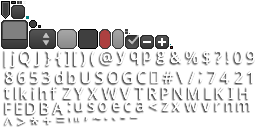
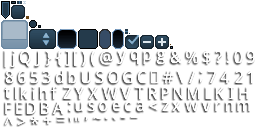
changed ui colors & forced landscape

Changed region(s): [[0.0, 0.0, 0.6562, 0.4062]]

diff --git a/glxy-android/src/com/kaeruct/glxy/MainActivity.java b/glxy-android/src/com/kaeruct/glxy/MainActivity.java
@@ -19,7 +19,7 @@ public class MainActivity extends AndroidApplication {
         WindowManager.LayoutParams attrs = getWindow().getAttributes();
         attrs.flags |= WindowManager.LayoutParams.FLAG_FULLSCREEN;
         getWindow().setAttributes(attrs);
-        setRequestedOrientation(ActivityInfo.SCREEN_ORIENTATION_PORTRAIT);
+        setRequestedOrientation(ActivityInfo.SCREEN_ORIENTATION_LANDSCAPE);
         
         if (Build.VERSION.SDK_INT >= 11) {
         	resetStatusBar();

diff --git a/glxy/src/com/kaeruct/glxy/screen/GameScreen.java b/glxy/src/com/kaeruct/glxy/screen/GameScreen.java
@@ -80,9 +80,9 @@ public class GameScreen extends Screen {
 		b1.pad(padY, padX, padY, padX);
 		
 		// set up table layout
-		table.add(universe).expand().fill().colspan(6).row();
+		table.add(universe).expand().fill().colspan(5).row();
 		table.add(l2).pad(4);
-		table.add(l1).pad(4).minWidth(20f).fillX();
+		table.add(l1).pad(4).fillX();
 		table.add(rSlider).right().pad(4).expandX();
 		table.add(b1).right().expandX().pad(4);
 		table.add(t4).right().pad(4);

diff --git a/glxy/src/com/kaeruct/glxy/actor/SettingsDialog.java b/glxy/src/com/kaeruct/glxy/actor/SettingsDialog.java
@@ -20,7 +20,7 @@ public class SettingsDialog extends Dialog {
 	private final float padY;
 	
 	public SettingsDialog (final Universe universe, Skin skin, float padX, float padY) {
-		super("Settings", skin);
+		super("", skin);
 		this.universe = universe;
 		this.padX = padX;
 		this.padY = padY;

diff --git a/glxy/src/com/kaeruct/glxy/actor/Universe.java b/glxy/src/com/kaeruct/glxy/actor/Universe.java
@@ -196,7 +196,7 @@ public class Universe extends Actor {
 
 		// fill background
 		sr.begin(ShapeType.FilledRectangle);
-		sr.setColor(0.1f, 0.1f, 0.2f, 1);
+		sr.setColor(0.05f, 0.05f, 0.05f, 1);
 		sr.filledRect(getX(), getY(), getWidth(), getHeight());
 		sr.end();
 
